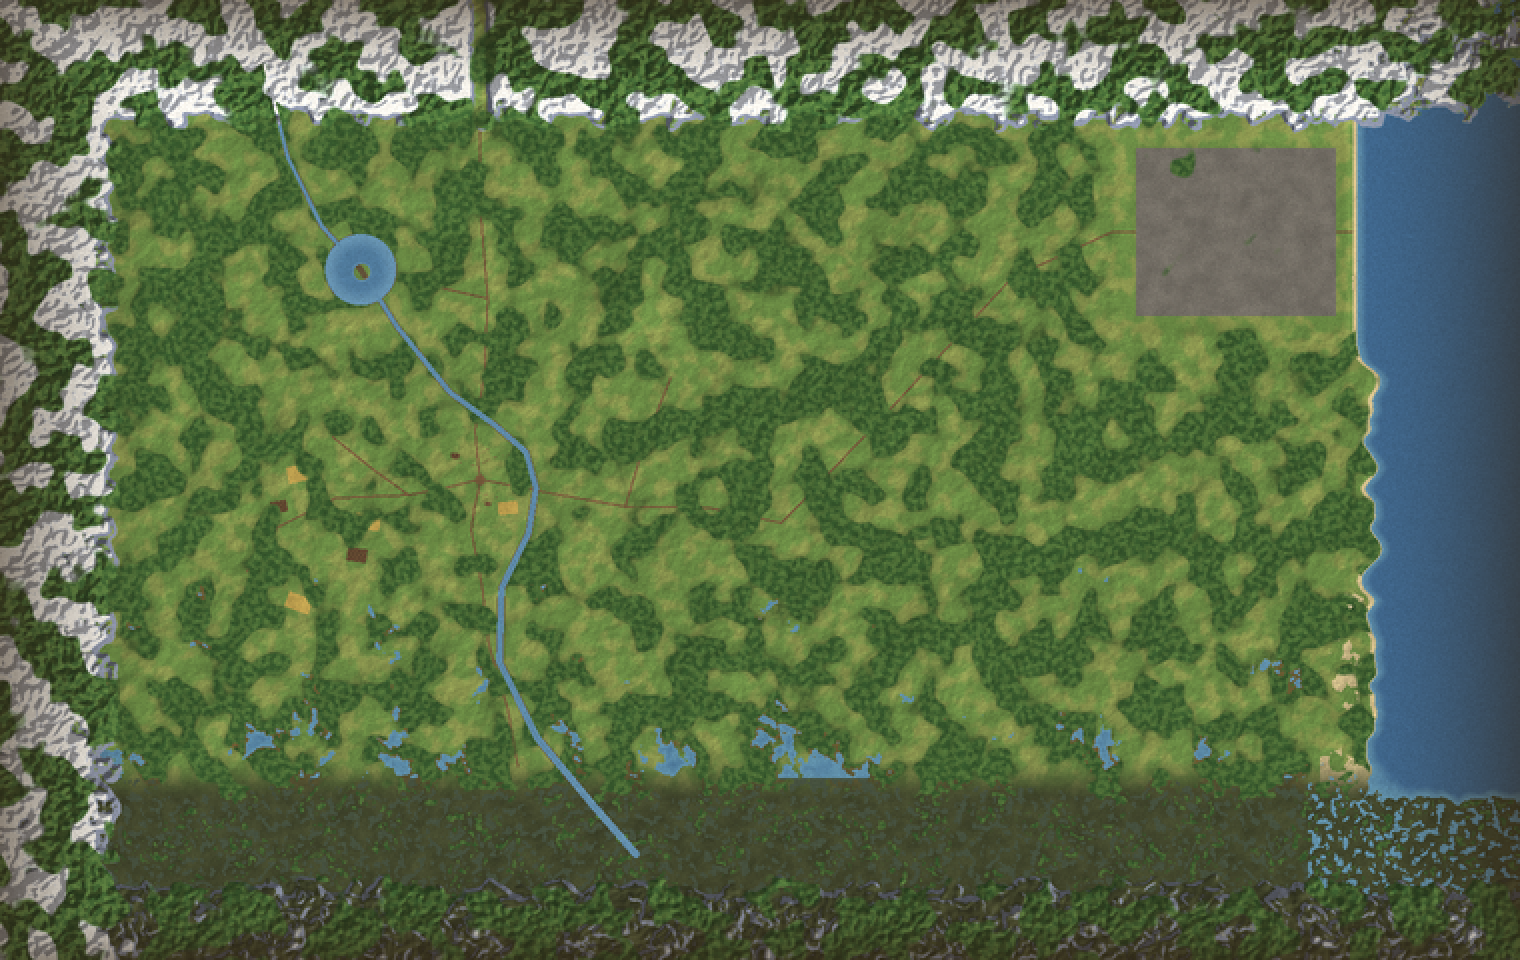
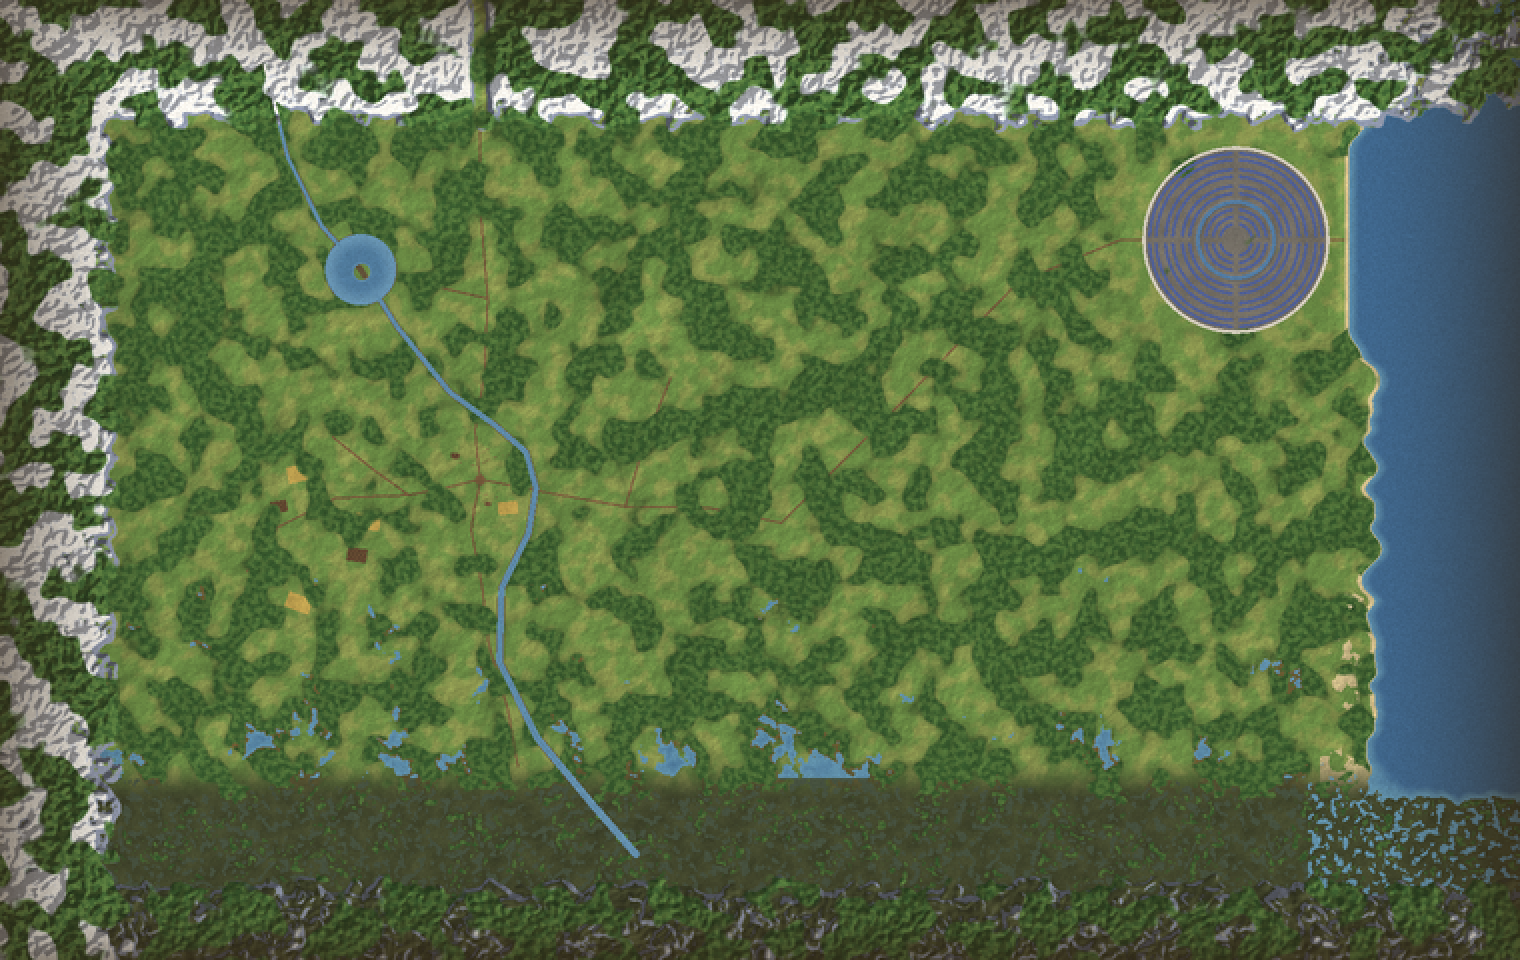
Cidade e vila redondas: Altamar com muralha circular, canal em anel, estátuas no portão; vila em anéis
Claude-Session: https://claude.ai/code/session_01WFSuYSG1mTsBiEAWeNGYj8

Changed region(s): [[0.7112, 0.0938, 0.8967, 0.375], [0.8967, 0.0938, 0.9276, 0.125], [0.8349, 0.0938, 0.8658, 0.125]]

diff --git a/docs/GDD.md b/docs/GDD.md
@@ -112,10 +112,12 @@ Região **retangular de 3,8 × 2,4 km** (formato de zona de MMO, mais larga que 
 - Escudo levantado de frente bloqueia a mordida. Lobo comum cai com 3 golpes leves (o forte vale 2); dá XP
   (15, líder 40). Vida da Rachel zerada: desmaia e acorda na vila.
 
-- **Altamar**, a cidade grande (canto nordeste, entre as montanhas e o mar): muralha de 9 m com torres e três portões
-  (oeste, sul e o do porto), rua principal do portão oeste até o cais, praça com chafariz, castelo encostado nas
-  montanhas, catedral, ~400 casas de pedra e sobrados, cais com dois navios (futuro: barco para outro continente).
-  Lugar planejado para banco, lojas e taverna. Estrada nova liga a vila ao portão oeste.
+- **Altamar**, a cidade grande e REDONDA (canto nordeste, entre as montanhas e o mar), inspirada nas grandes capitais
+  de MMO: muralha redonda de pedra clara (raio 230 m) com torres de telhado azul e três portões (oeste com duas
+  estátuas de guardiões, sul e o do porto), quatro ruas principais saindo da praça central (chafariz e estátua),
+  canal em anel com quatro pontes, castelo na muralha norte, catedral, ~400 casas em anéis, cais com dois navios
+  de velas azuis. Lugar planejado para banco, lojas e taverna.
+- **A vila** também é redonda: casas em dois anéis em volta da praça do poço, viradas para o centro.
 
 ## 7.1.1 Dia e noite
 - Relógio do jogo: 1 hora = 1 minuto real (o dia inteiro dura 24 min); começa às 9h.
